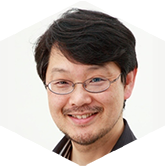
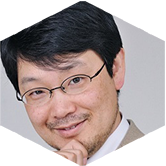
新增講者，nav 加圖片

diff --git a/app/assets/stylesheets/static_pages.scss b/app/assets/stylesheets/static_pages.scss
@@ -48,7 +48,8 @@ header{
 	}
 	.disabled{
 		cursor: default; 
-		opacity: 0.5;
+		// opacity: 0.5;
+		display: none;
 	}
 	.social{	
   	position: absolute;
@@ -60,16 +61,17 @@ header{
   		}
 	}
 	.info{
-		 text-align: center;
+		text-align: center;
 		display: block;
 		color: #fff;
+		margin-top: 2%;
 		margin-bottom: 2%;
 		font-family: "Songti TC";
-		img{float:left;padding: 0 9%;}
-		p{float:left;letter-spacing: 2px;}
+		img{float:left;}
+		p{float:left;letter-spacing: 2px;  margin-left: 10px;}
 		.info-inner{
-			display: inline-block;
-			width: 200px;
+			display: inline-block;	
+			margin: 0 3%;	
 		}
 
 	}
@@ -82,19 +84,29 @@ header{
 }
 nav#front-nav{
 	position: fixed;
-	top: 30%;
+	// top: 30%;
+	top: 300px;
  	left: 68px;
  	z-index: 2;
- 	ul { 
-	  list-style-image:url('line.png'); 
+	.list-group-icon {
+	  position: relative;
+	  display: block;
+	  padding: 10px 15px;
+	  margin-bottom: -1px;
 	}
-	li a{
-	 	opacity: 0;
+	a.list-group-icon {
+		color: #fff;
+		img{
+			opacity: 0;
+		}
 	}
-	li a:hover{
-		opacity: 1;
+	a.list-group-icon:hover, a.list-group-icon:focus {
+	  text-decoration: none;
+	  
+	  img{
+			opacity: 1;
+		}
 	}
-
 }
 .green_block{
 	background-color: #00CCB2;

diff --git a/app/assets/stylesheets/application.scss b/app/assets/stylesheets/application.scss
@@ -6,3 +6,5 @@
 
 // @import "bootstrap-sprockets";
 // @import "bootstrap";
+@import "font-awesome-sprockets";
+@import "font-awesome";
